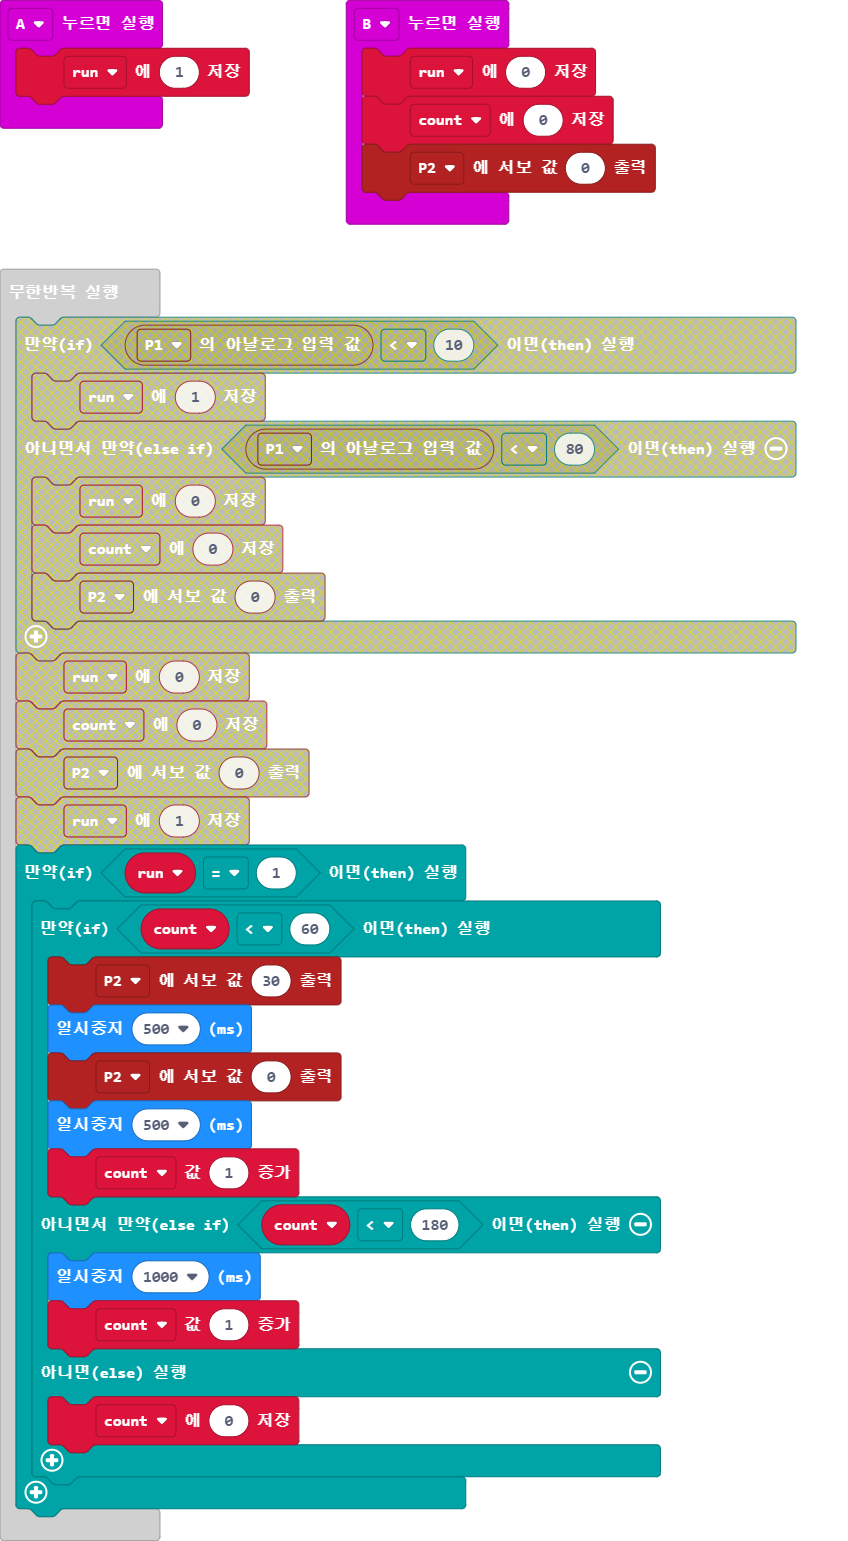
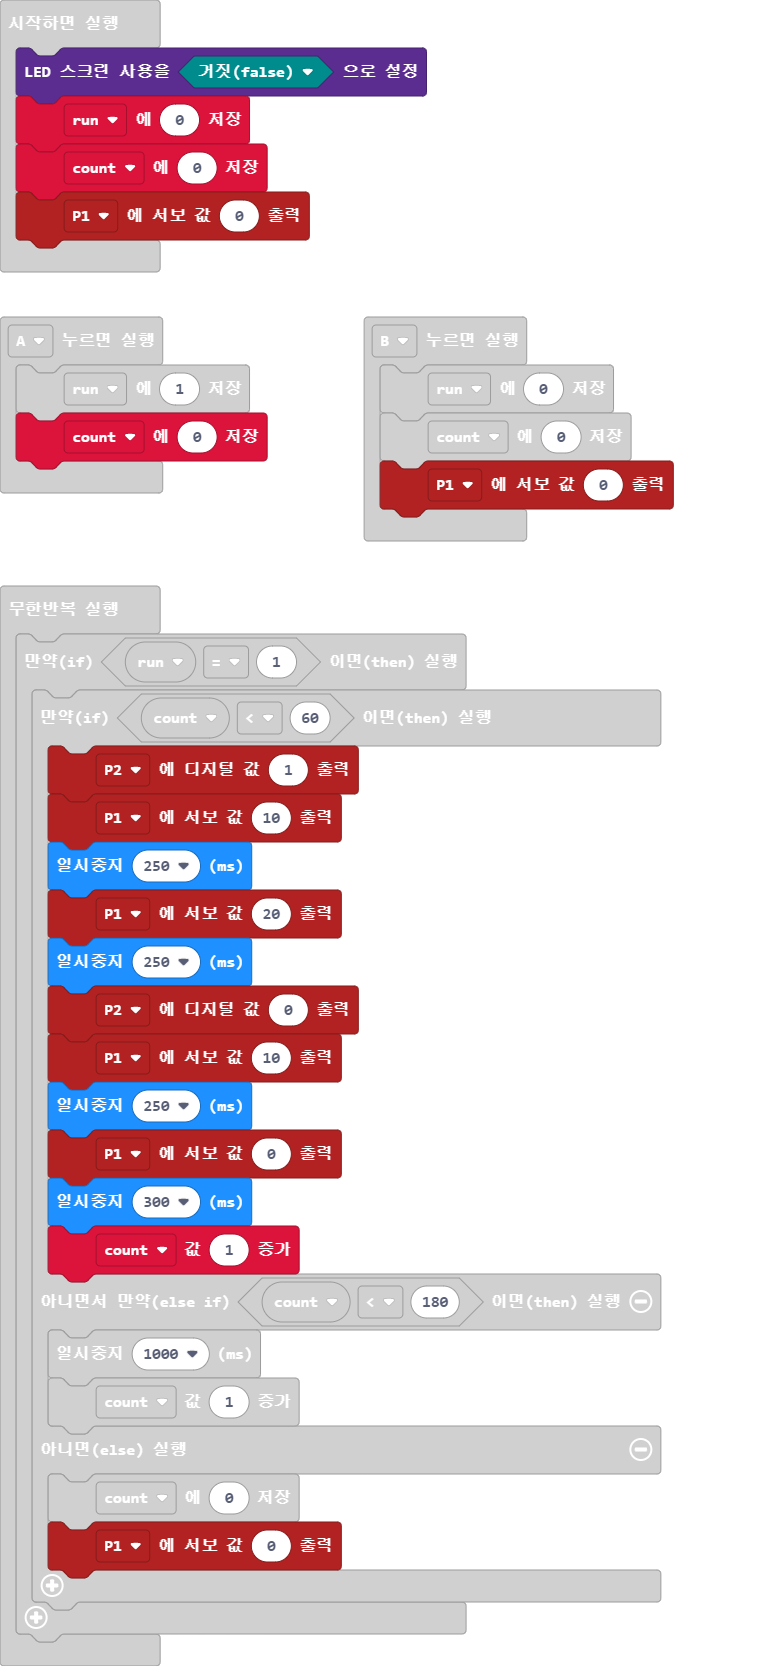
main.blocks, main.ts 업데이트하기

diff --git a/main.ts b/main.ts
@@ -1,29 +1,38 @@
 input.onButtonPressed(Button.A, function () {
     run = 1
+    count = 0
 })
 input.onButtonPressed(Button.B, function () {
     run = 0
     count = 0
-    pins.servoWritePin(AnalogPin.P2, 0)
+    pins.servoWritePin(AnalogPin.P1, 0)
 })
 let count = 0
 let run = 0
+led.enable(false)
 run = 0
 count = 0
-pins.servoWritePin(AnalogPin.P2, 0)
+pins.servoWritePin(AnalogPin.P1, 0)
 basic.forever(function () {
     if (run == 1) {
         if (count < 60) {
-            pins.servoWritePin(AnalogPin.P2, 30)
-            basic.pause(500)
-            pins.servoWritePin(AnalogPin.P2, 0)
-            basic.pause(500)
+            pins.digitalWritePin(DigitalPin.P2, 1)
+            pins.servoWritePin(AnalogPin.P1, 10)
+            basic.pause(250)
+            pins.servoWritePin(AnalogPin.P1, 20)
+            basic.pause(250)
+            pins.digitalWritePin(DigitalPin.P2, 0)
+            pins.servoWritePin(AnalogPin.P1, 10)
+            basic.pause(250)
+            pins.servoWritePin(AnalogPin.P1, 0)
+            basic.pause(300)
             count += 1
         } else if (count < 180) {
             basic.pause(1000)
             count += 1
         } else {
             count = 0
+            pins.servoWritePin(AnalogPin.P1, 0)
         }
     }
 })
